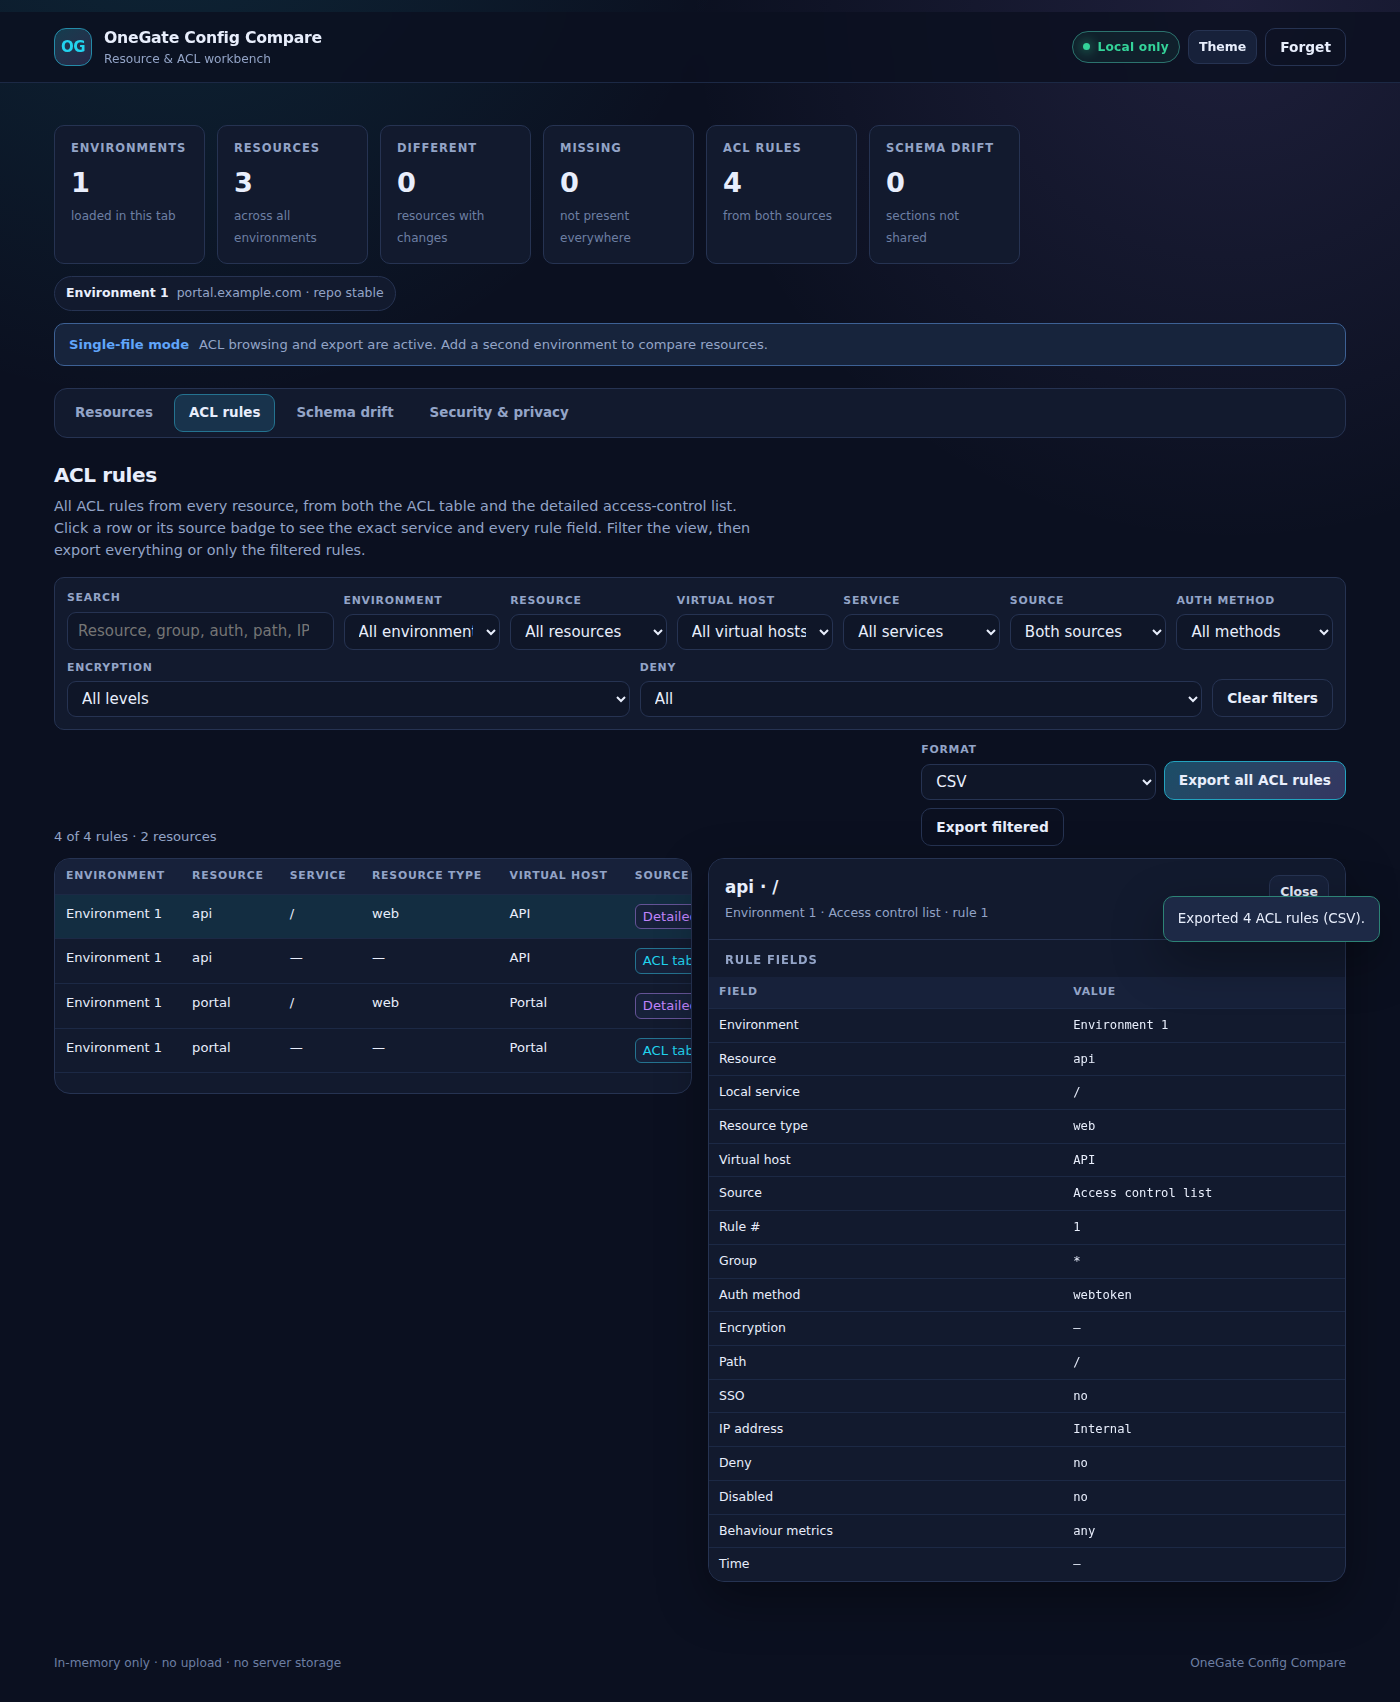
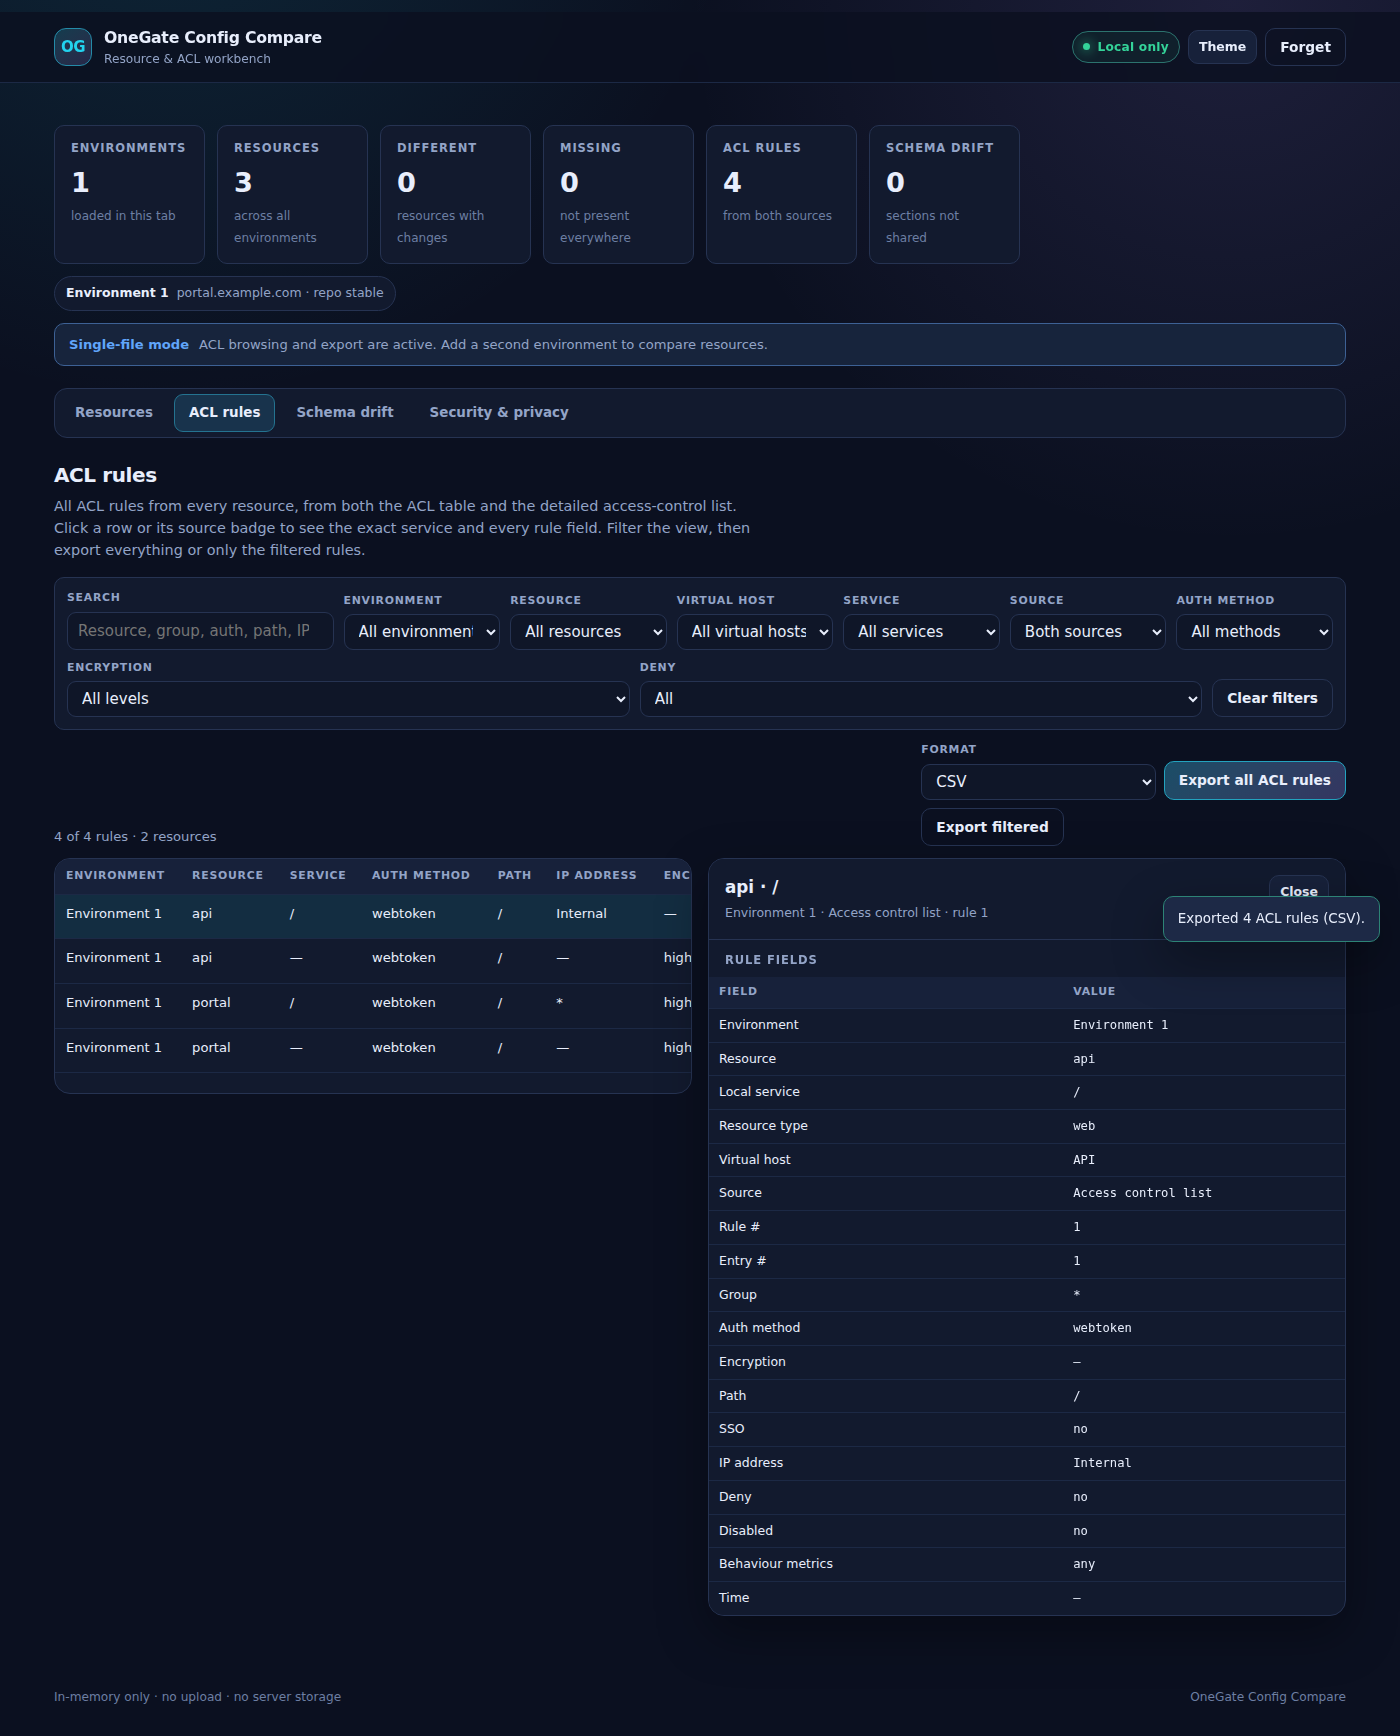
fix: keep auth, path and IP columns visible in ACL table
- reorder ACL columns so Auth method, Path and IP address appear before the wider context columns
- keep Service and Resource type available without pushing the key rule fields off-screen
- update export header tests and screenshots

diff --git a/public/assets/js/export.js b/public/assets/js/export.js
@@ -6,19 +6,19 @@ export const ACL_COLUMNS = [
   { key: 'environmentName', label: 'Environment' },
   { key: 'resource', label: 'Resource' },
   { key: 'localService', label: 'Service' },
-  { key: 'resourceType', label: 'Resource type' },
+  { key: 'authMethod', label: 'Auth method' },
+  { key: 'path', label: 'Path' },
+  { key: 'ipAddress', label: 'IP address' },
+  { key: 'encryption', label: 'Encryption' },
+  { key: 'group', label: 'Group' },
   { key: 'vhName', label: 'Virtual host' },
   { key: 'source', label: 'Source' },
   { key: 'ruleIndex', label: 'Rule #' },
-  { key: 'group', label: 'Group' },
-  { key: 'authMethod', label: 'Auth method' },
-  { key: 'encryption', label: 'Encryption' },
-  { key: 'path', label: 'Path' },
   { key: 'sso', label: 'SSO' },
-  { key: 'ipAddress', label: 'IP address' },
   { key: 'deny', label: 'Deny' },
   { key: 'disabled', label: 'Disabled' },
   { key: 'behaviorMetrics', label: 'Behaviour metrics' },
+  { key: 'resourceType', label: 'Resource type' },
   { key: 'time', label: 'Time' },
   { key: 'extra', label: 'Extra' },
 ];

diff --git a/README.md b/README.md
@@ -183,9 +183,9 @@ Clicking a row or its **ACL table** / **Detailed** badge opens a rule detail pan
 Proposed normalised record:
 
 ```text
-resource, localService, resourceType, virtualHost, sourceSection, ruleIndex,
-group, authMethod, encryption, path, sso, ipAddress, deny, disabled,
-behaviourMetrics, extra
+resource, localService, authMethod, path, ipAddress, encryption, group,
+virtualHost, sourceSection, ruleIndex, sso, deny, disabled,
+behaviourMetrics, resourceType, extra
 ```
 
 `sourceSection` distinguishes `<ACL>` rows from `<ACCESS_CONTROL_LIST>` rules so the export is traceable. Fields that do not fit the common model are preserved in `extra` rather than dropped.
